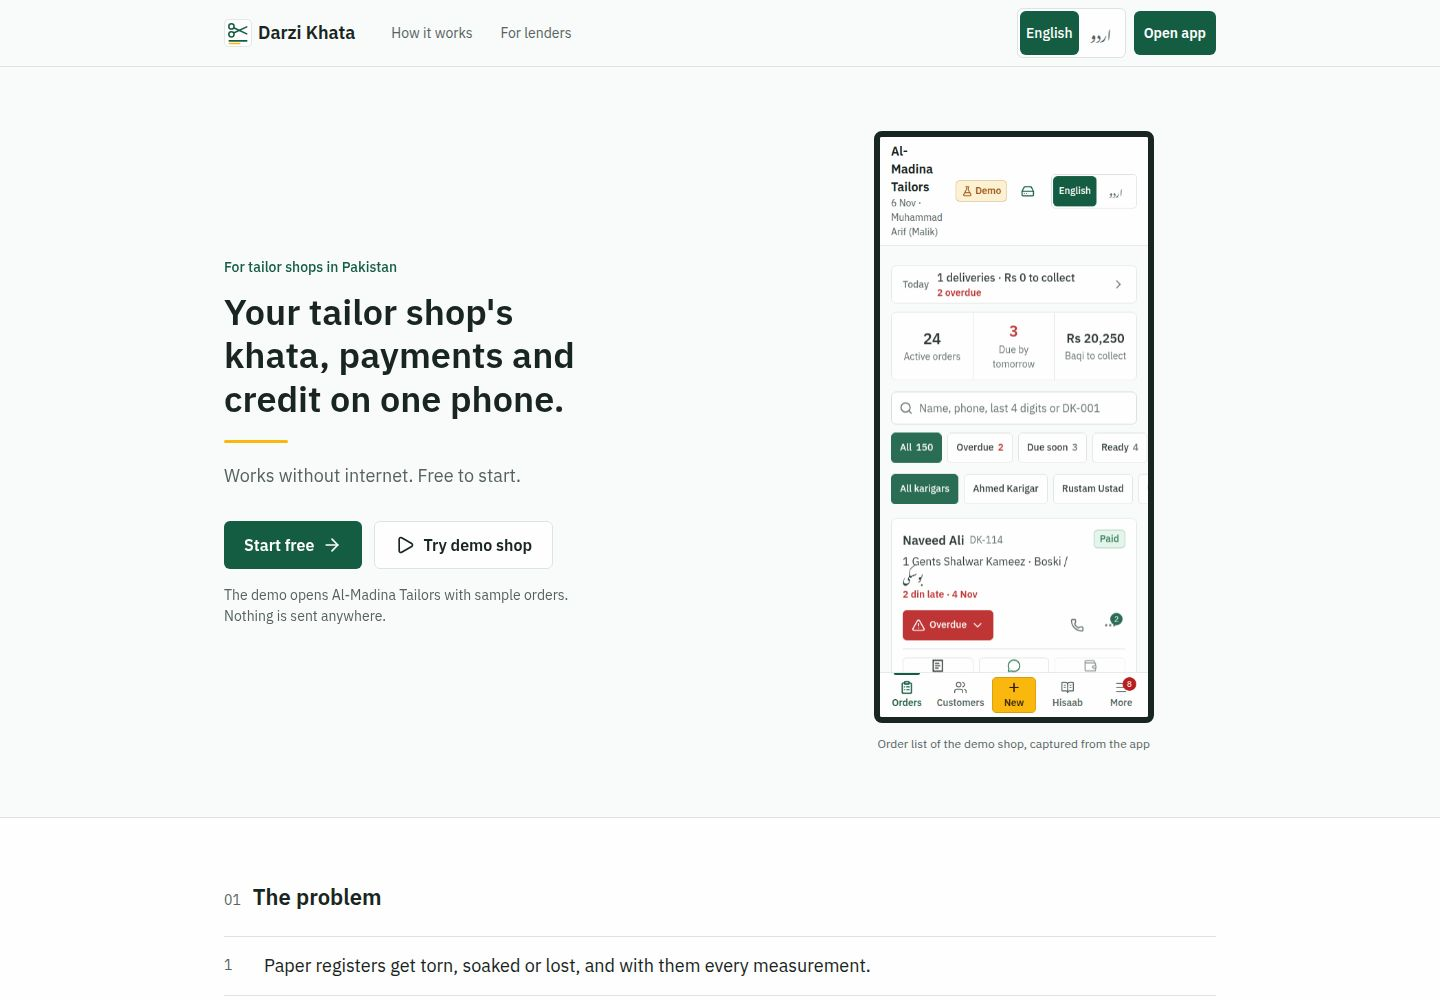
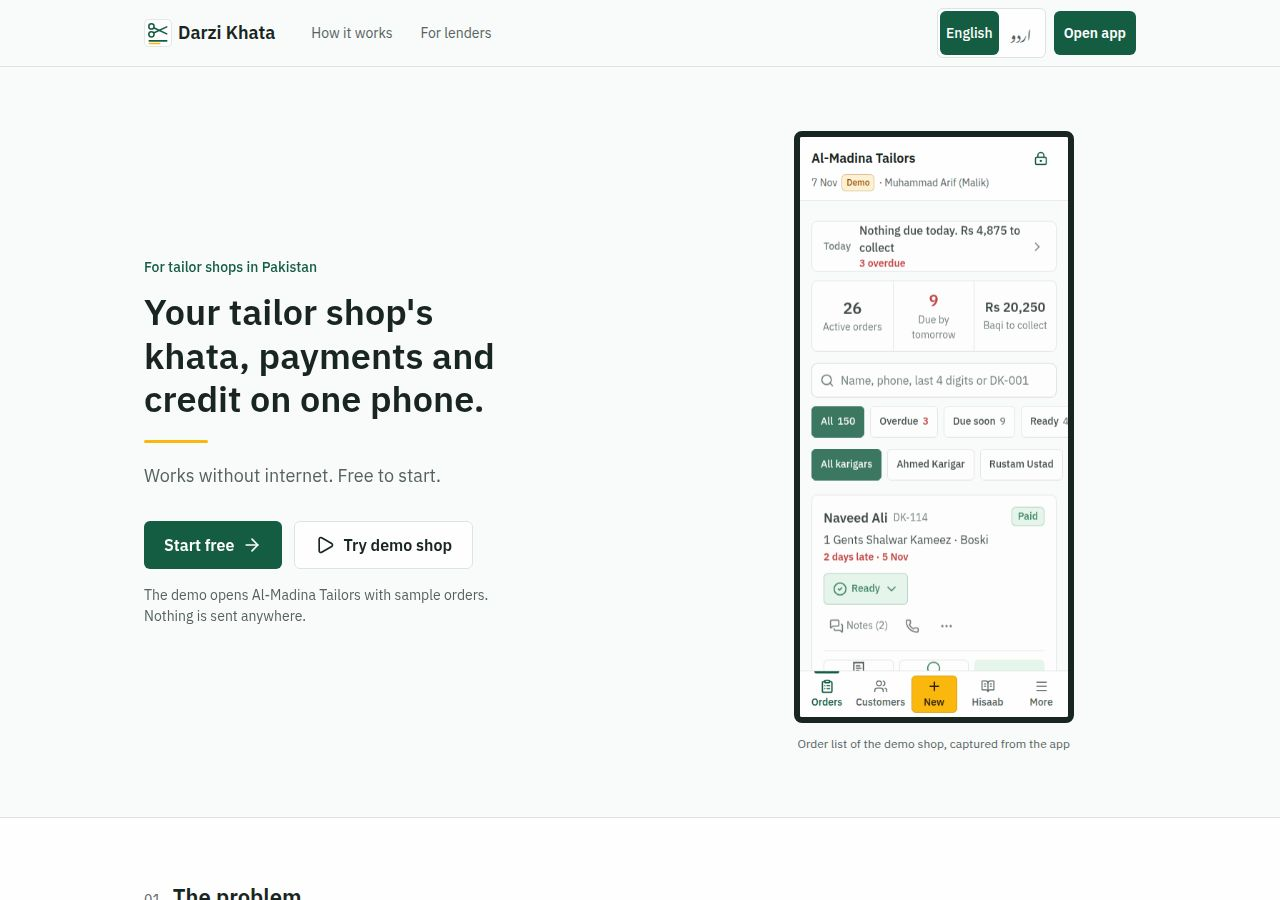
Record release QA proof and refreshed landing screenshot

diff --git a/QA.md b/QA.md
@@ -1,5 +1,109 @@
 # Darzi Khata verification
 
+## Judges release, 7 November 2026
+
+**Release source:** `d743ac63`. Actual More-page text:
+`Version 1.5.0+d743ac63.20261106211440Z`.
+Urdu: `ورژن 1.5.0+d743ac63.20261106211440Z`.
+The version identifies the latest commit changing the app directory; later
+QA/checkpoint metadata-only commits do not change the application source.
+
+### Important: preview is not the published site
+
+All PASS results below are against the **production Vite build in preview**,
+not the public deployment. The live domain was checked again after pushing:
+it still returned the old bilingual title and old login page. A Publish action
+has been shown. **Republishing and public-domain acceptance are BLOCKED until
+the user clicks Publish.** No claim is made that the live site was updated.
+Do not clear customer storage or uninstall the PWA to update it.
+
+### Pass/fail checklist
+
+| Requirement/flow | Production-build preview |
+|---|---|
+| `/` landing; `/app` signed-out login; installed PWA starts `/app` | PASS |
+| English and Urdu login, order list, new form, parchi, Settings screenshots | PASS |
+| Intro Skip and final Next persist after reload in both languages | PASS |
+| Header fits 320/360/375 px; shop and owner truncate; small inline Demo; lock icon | PASS |
+| In-app language selection in Settings, not shop/tool headers | PASS |
+| Today counts active due-today deliveries; deduplicated ready/late/today balances; no zero-only message | PASS — pure calendar/payment tests |
+| Actual Pending/Stitching/Ready/Delivered status; separate red lateness | PASS |
+| Built-in/legacy fabric and demo text display in selected language; custom text preserved | PASS |
+| Notes is labeled; overflow Edit/Delete only; paid payment action replaced by Paid; no More badge or intro icon tile | PASS |
+| Signup, empty account, first order with two garment types | PASS — automated and manual-browser evidence |
+| Parchi, A4/58/80 mm print and print-media controls hidden | PASS |
+| Saved-customer reuse; other customer's edit does not change first customer | PASS |
+| Quick order promoted to full form preserves selected saved measurements | PASS — regression confirms 42 stays 42, saved profile unchanged |
+| Partial cash and full simulated QR payments update balances/credit | PASS — no real bank payment claimed |
+| WhatsApp 92-normalized number, selected-language message/parchi and RTL arrows | PASS — intercepted handoff/message checks; no message sent |
+| Lender profile without login, read-only consent, expiry/tamper checks | PASS |
+| Guided pitch finishes with the same recomputed credit score | PASS |
+| Wrong password rejected; accounts remain isolated | PASS |
+| Offline reload and save after install | PASS |
+| Existing worker replaced, refresh notice displayed, stored sentinel preserved | PASS |
+| All 12 main/tool routes dark, English/Urdu, 375×812 | PASS — 24 screenshots and automated contrast checks |
+| Eight `/screens/*.webp` respond 200; OG image 1200×630 with image metadata | PASS in preview; public assets need Publish |
+| README live URL, credentials, three screenshots, five-step pitch | PASS |
+| README full team names | BLOCKED — names were requested but not supplied |
+| Published landing, current More version and real WhatsApp OG preview | BLOCKED — Publish needed; third-party WhatsApp preview not asserted |
+
+### Commands and evidence
+
+- `pnpm typecheck`: PASS, entire workspace.
+- In `artifacts/darzi-khata`, `npx tsc --noEmit`: exit 0, no diagnostics.
+- `pnpm test`: 29 core checks plus 118 Vitest tests in 10 files passed,
+  including `i18n.test.ts`.
+- In the app directory, `pnpm vitest run`: 118 passed. The root command is
+  unavailable because Vitest is installed in the app package, not the root.
+- Playwright: **65 unique scenarios passed, 1 intentional production-only
+  skip**. Initial pass exposed two dark-mode failures, subsequently fixed.
+  A manual browser pass found Quick→Full dropping saved measurements; fixed
+  and covered by a new regression. This total combines the original pass
+  with targeted successful reruns, not an invented single clean run.
+- `npx impeccable detect src/`: 170 source files scanned, no regex findings.
+  This is a source-only scan; its parsed-page/contrast rules did not run.
+- Additional axe color-contrast scan: **24 route/language checks, 0 detected
+  violations** after fixing payment/loan buttons and the credit badge.
+  Five pages have incomplete SVG/chart regions; this is not a full WCAG
+  certification.
+- Production build succeeds, managed Vite preview running, final smoke
+  reports no page errors and verifies both-language More strings against
+  the source SHA.
+
+### Lighthouse mobile — two isolated final-build runs
+
+Scores below use the lower score of both runs for each category.
+Lighthouse uses its mobile preset; 375×812 refers to the Playwright screenshots.
+
+| Route | Performance | Accessibility | Best practices | SEO |
+|---|---:|---:|---:|---:|
+| Landing, cold | 91 | 100 | 100 | 100 |
+| Login, cold | 100 | 100 | 100 | 100 |
+| Signed-in demo order list | 99 | 100 | 100 | 92 |
+
+Landing performance runs were 91/99; order list 99/100.
+Signed-in order-list auditing preserves the signed-in session and installed
+app resources; it is **not** presented as a cold signed-out load.
+No claim that these are measurements of the outdated published domain.
+
+### Files
+
+- `qa-screens/en/`, `qa-screens/ur/`: light proof, print-media, 12 dark pages
+  each, and final More version captures. Generated/ignored, not user data.
+- `generated-artifacts/judges/`: exact command output, initial failures,
+  successful reruns, release smoke JSON, contrast output and Lighthouse
+  HTML/JSON. Downloadable HTML and ZIP contain the evidence.
+- Updated actual 375×812 screenshots and social image are tracked under
+  `artifacts/darzi-khata/public/screens/`.
+
+### Public acceptance after Publish
+
+Open a fresh browser at the public `/`, confirm the landing (not login).
+Open `/app`, confirm login; check all eight WebP assets and OG metadata.
+Then open an already-installed PWA, accept its refresh notice, verify
+the new source version in More and confirm existing data remains intact.
+This last public/installed-device pass has **not** been claimed as complete.
+
 ## Landing, routed app and shop tools, 6 November 2026
 
 Current verification evidence is in `generated-artifacts/launch/`. Earlier
